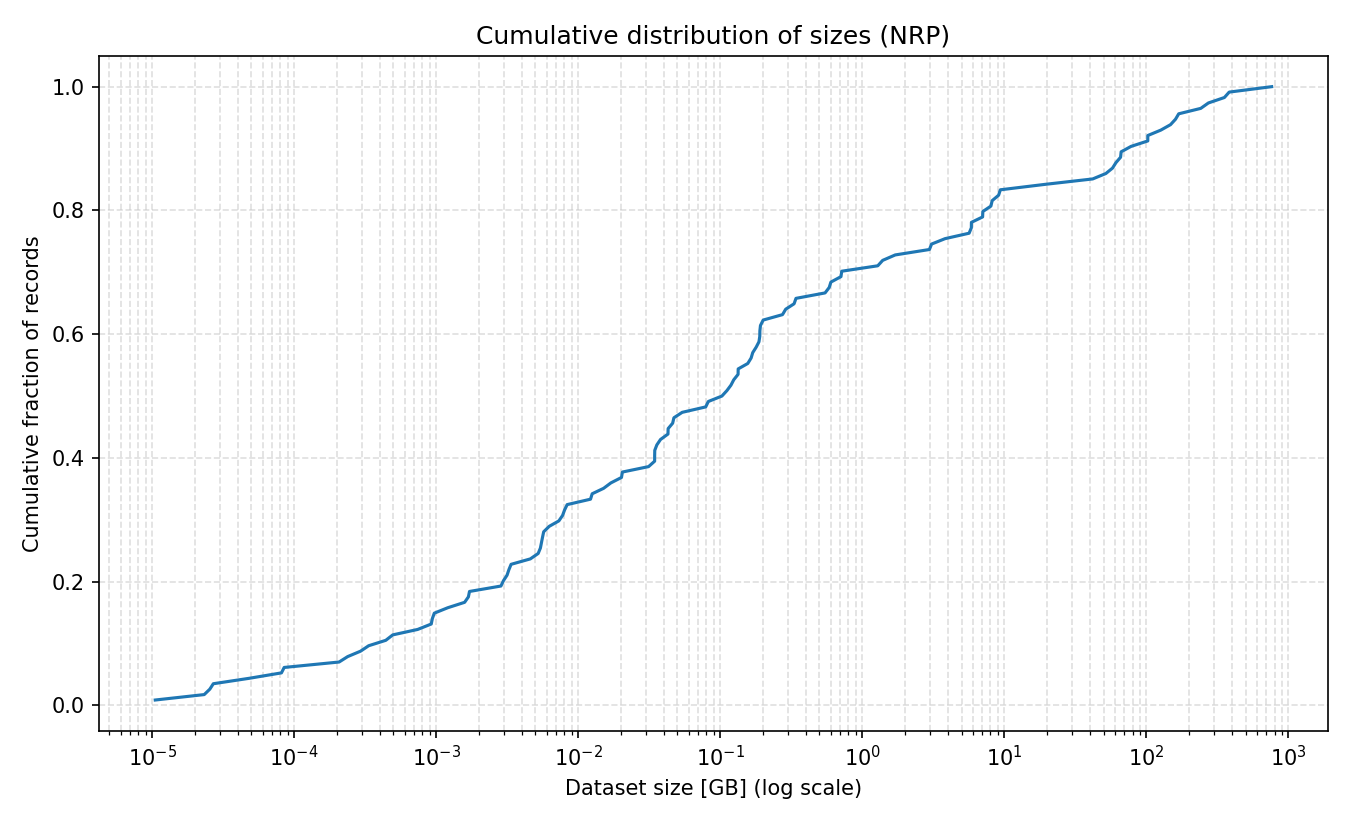
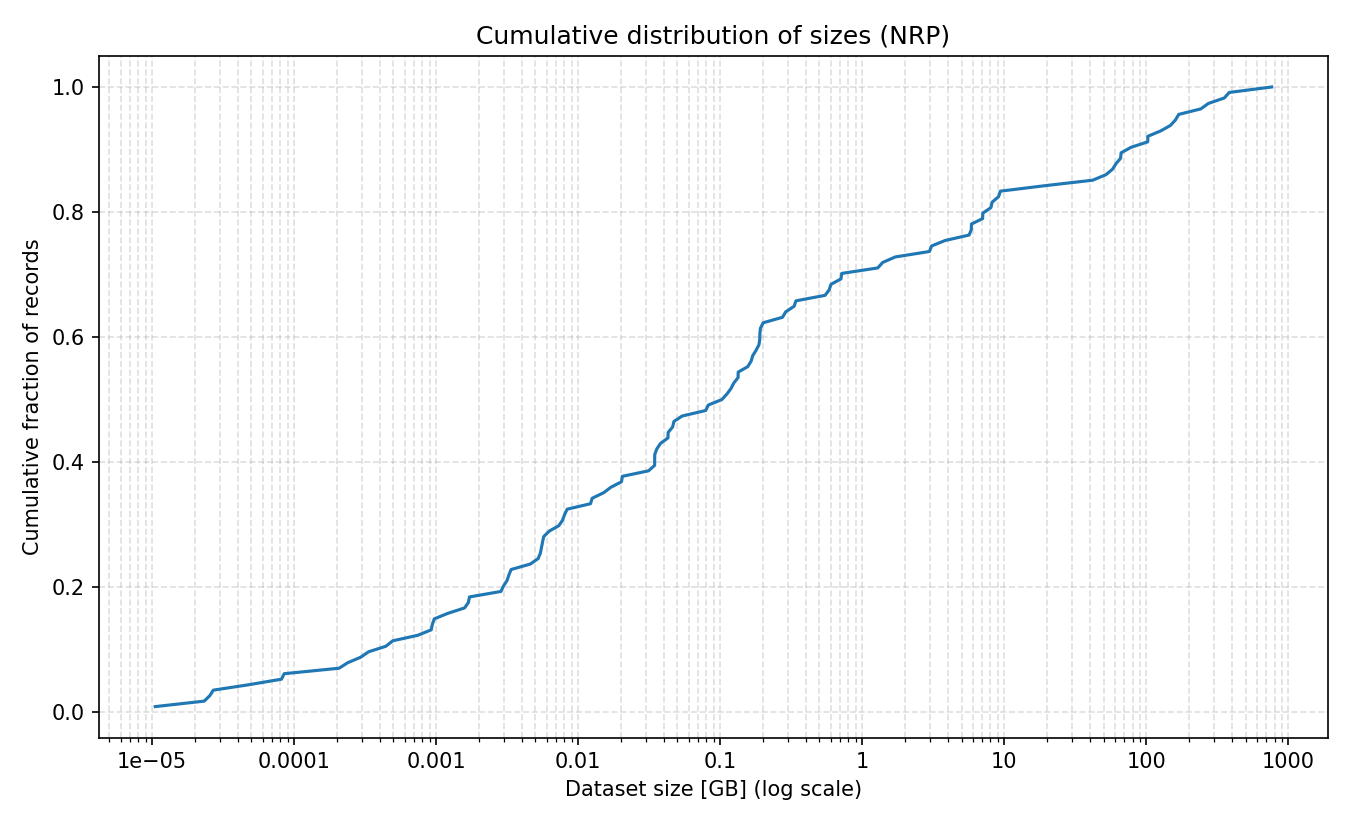
slight modifications to size counting

diff --git a/datasets-volume-graphs.py b/datasets-volume-graphs.py
@@ -1,6 +1,7 @@
 import pandas as pd
 import numpy as np
 import matplotlib.pyplot as plt
+from matplotlib.ticker import StrMethodFormatter  # added
 from pathlib import Path
 
 PARQUET = "nrp_dump/records_flat.parquet"
@@ -29,10 +30,19 @@ else:
     bins = np.geomspace(xmin, xmax, 50)
 
 plt.hist(sizes_gb, bins=bins, edgecolor="black")
-plt.xscale("log")
+
+# POŽADAVEK: hlavní značky 0.1, 1, 10, 100, ...
+ax = plt.gca()
+ax.set_xscale("log")
+lo = int(np.floor(np.log10(xmin)))
+hi = int(np.ceil(np.log10(xmax)))
+major_ticks = [10 ** k for k in range(lo, hi + 1)]
+ax.set_xticks(major_ticks)
+ax.xaxis.set_major_formatter(StrMethodFormatter("{x:g}"))
+
 plt.xlabel("Dataset size [GB] (log scale)")
 plt.ylabel("Number of datasets")
-plt.title("Distribution of dataset sizes (NRP)")
+plt.title("Distribution of dataset sizes (catch-all)")
 plt.tight_layout()
 hist_path = OUT_DIR / "size_histogram.png"
 plt.savefig(hist_path, dpi=150)
@@ -47,10 +57,19 @@ sizes_sorted = np.sort(sizes_gb.values)
 cdf = np.arange(1, len(sizes_sorted) + 1) / len(sizes_sorted)
 
 plt.plot(sizes_sorted, cdf)
-plt.xscale("log")
+
+# POŽADAVEK: hlavní značky 0.1, 1, 10, 100, ... (stejně jako u histogramu)
+ax = plt.gca()
+ax.set_xscale("log")
+lo2 = int(np.floor(np.log10(xmin)))
+hi2 = int(np.ceil(np.log10(xmax)))
+major_ticks2 = [10 ** k for k in range(lo2, hi2 + 1)]
+ax.set_xticks(major_ticks2)
+ax.xaxis.set_major_formatter(StrMethodFormatter("{x:g}"))
+
 plt.xlabel("Dataset size [GB] (log scale)")
 plt.ylabel("Cumulative fraction of records")
-plt.title("Cumulative distribution of sizes (NRP)")
+plt.title("Cumulative distribution of sizes (catch-all)")
 plt.grid(True, which="both", axis="both", linestyle="--", alpha=0.4)
 plt.tight_layout()
 cdf_path = OUT_DIR / "cumulative_distribution.png"
